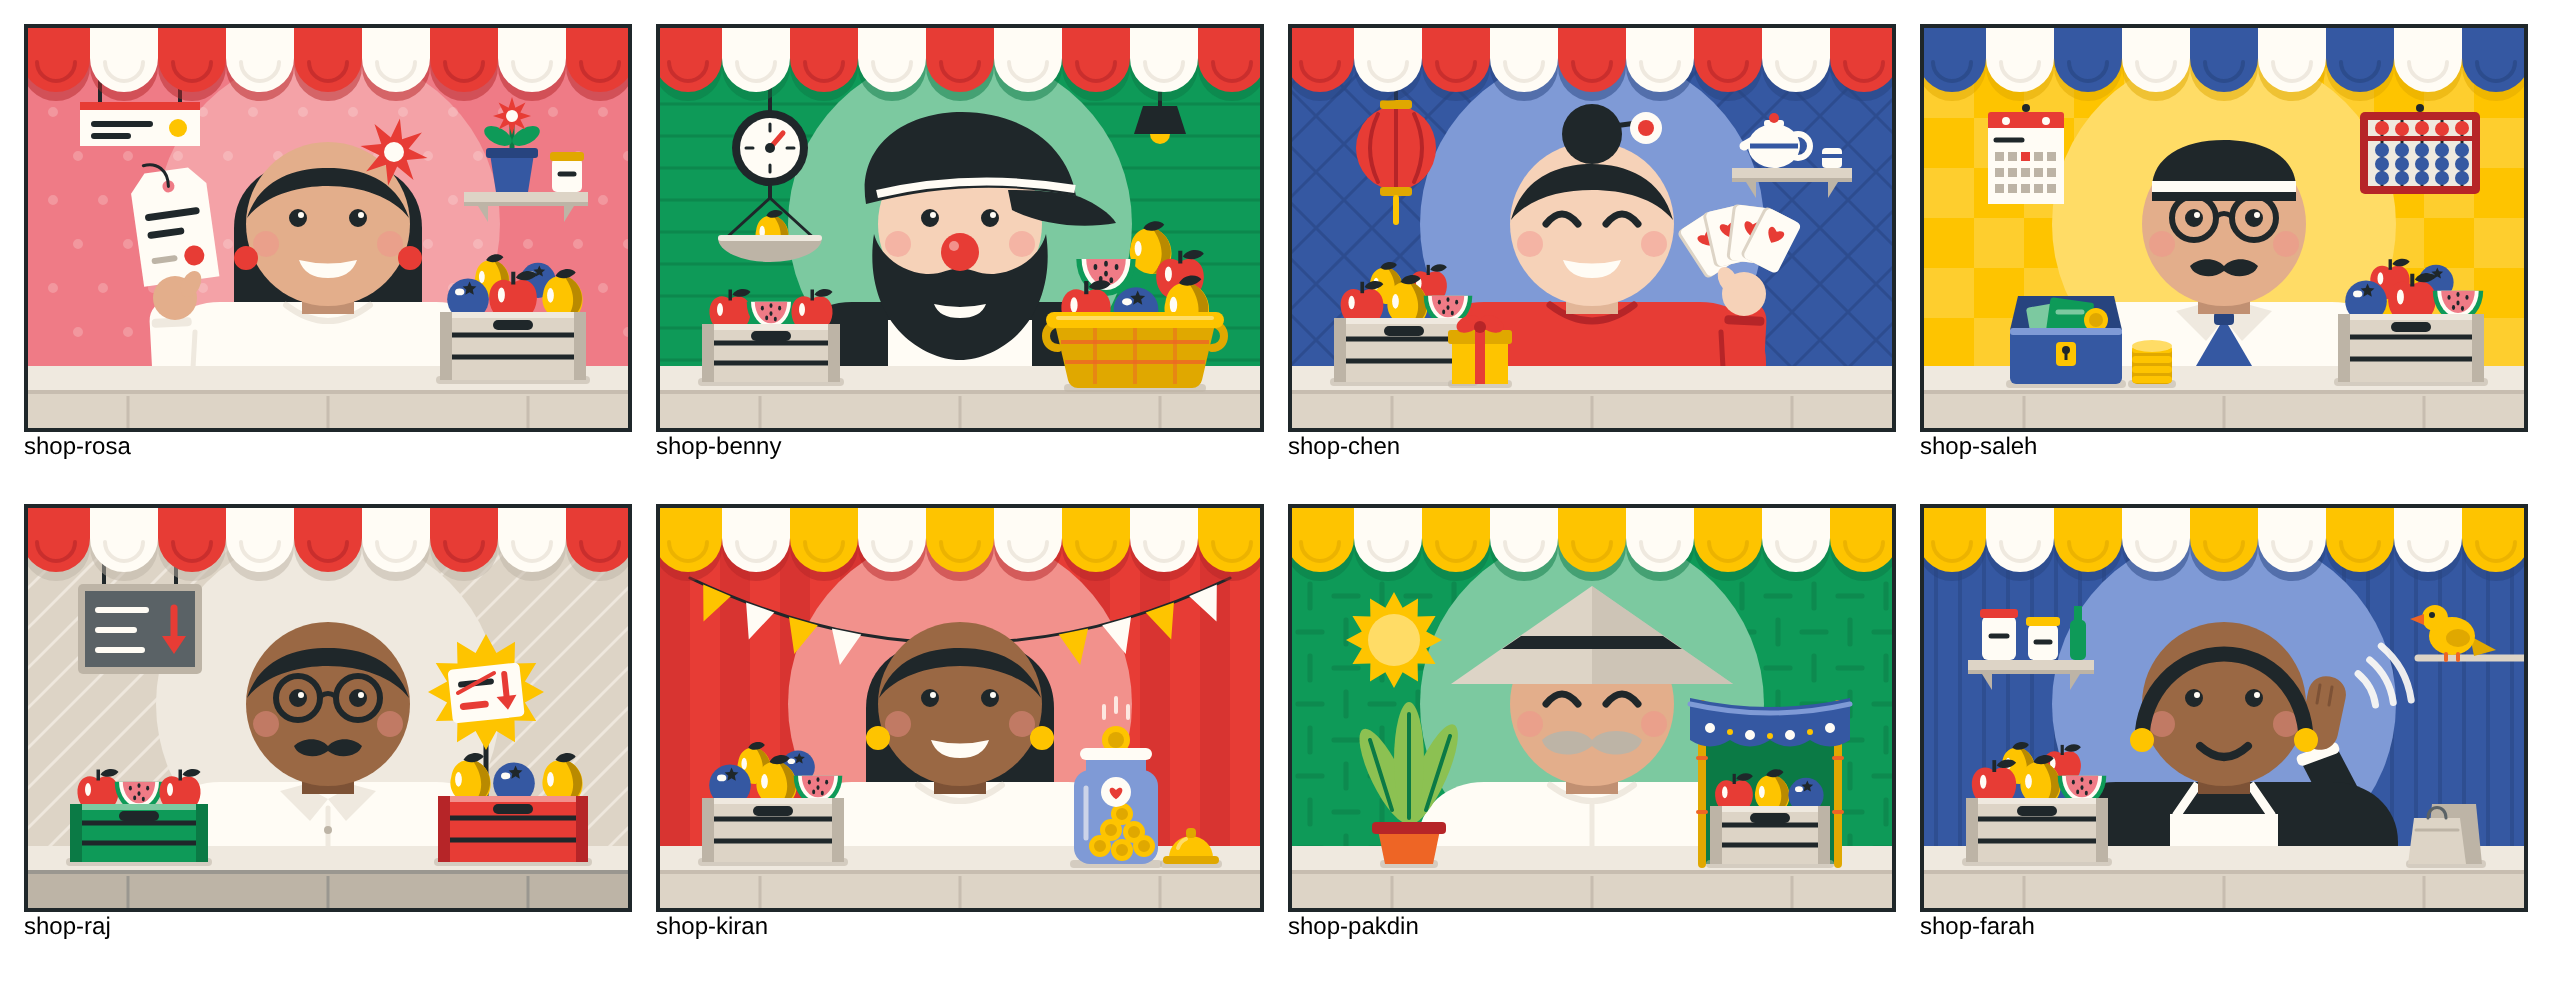
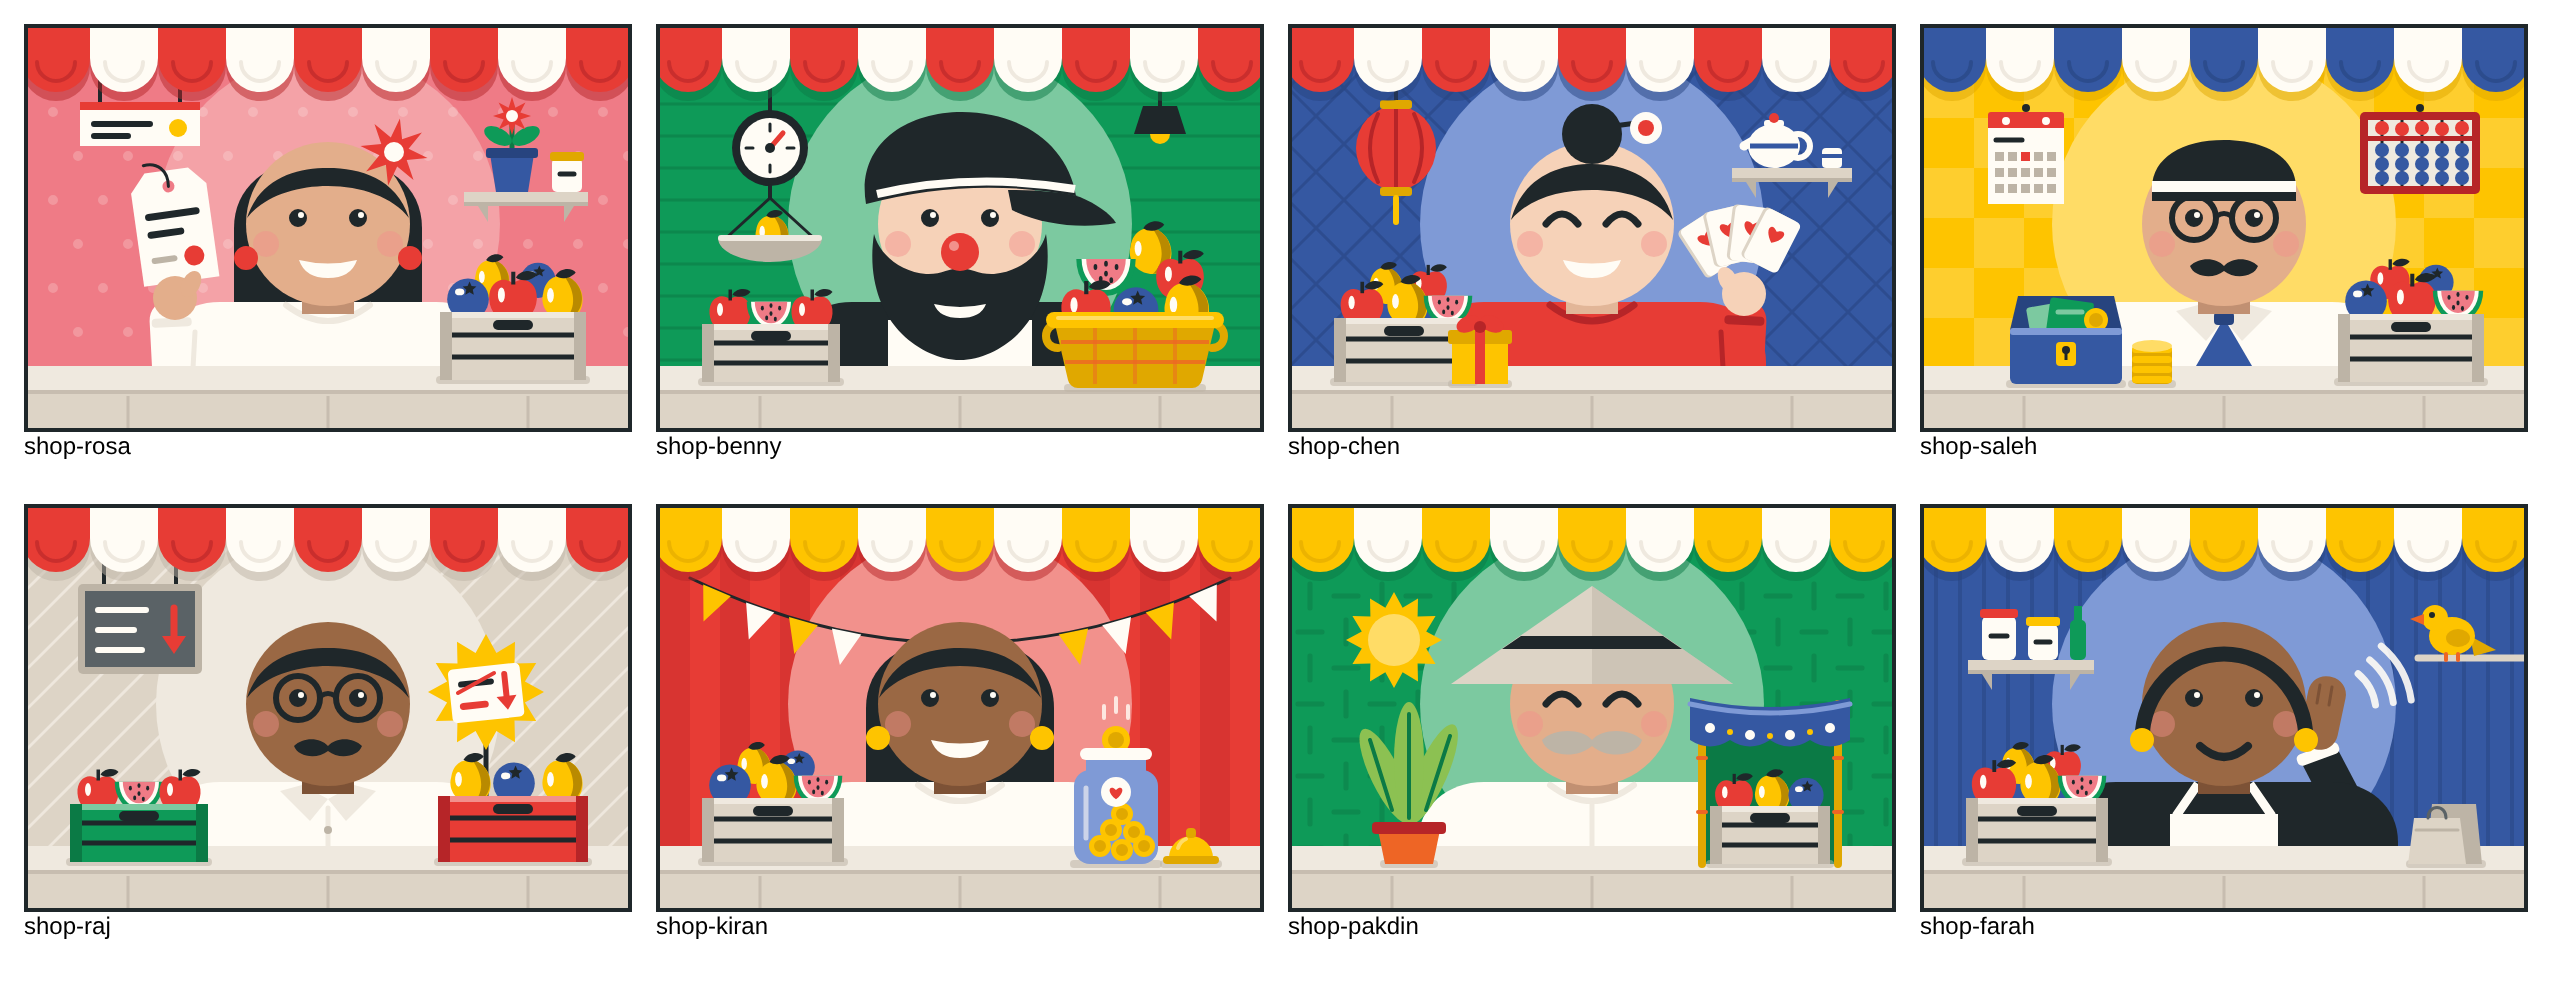
Card pictures: shopkeeper drafts in progress
Claude-Session: https://claude.ai/code/session_01AHT6JFJF6SnUBHspaM9zKD

Changed region(s): [[0.0, 0.8841, 0.2484, 0.9451]]

diff --git a/docs/studio/art-drafts/cards-18/shops_orders.py b/docs/studio/art-drafts/cards-18/shops_orders.py
@@ -1,9 +1,9 @@
 """Card pictures for the eight shopkeepers (shop-<id>.svg) and the eight standing-order clients (order-<slug>.svg).
 
 Shopkeepers: one bust behind their own stall. Layers, back to front: the wall in the stall's colour with a quiet
-pattern and the lighter disc behind the head; things on the wall; the scalloped awning; the person, drawn like their
-picture in public/art-ticket/scenes; the counter in a soft tone (never a black strip); fruit crates and the one object
-that hints at their perk.
+pattern and the lighter disc behind the head; things on the wall; the scalloped awning in paper and one strong colour
+(never ink); the person, drawn like their picture in public/art-ticket/scenes; the counter in a soft tone (never a
+black strip); fruit crates and the one object that hints at their perk.
 
 Standing orders: the place itself (no person), with the fruit it wants shown with the game's fruit icons.
 
@@ -316,7 +316,7 @@ SHOPS['saleh'] = scene(
 
 # ---------- Raj: Bargain Hunter, a marked-down tag (kraft stall) ----------
 SHOPS['raj'] = scene(
-    KRAFT, pat_hatch(PALE, .9), PALE, STONE, front=STONE, seam=SLATE, seam_o=.35,
+    KRAFT, pat_hatch(PALE, .9), PALE, STONE,
     props=
     # a price board: prices going down
     L('M76 30v50M148 30v50', INK, 4) + R(50, 76, 124, 90, STONE, rx=5) + R(57, 83, 110, 76, SLATE) +
